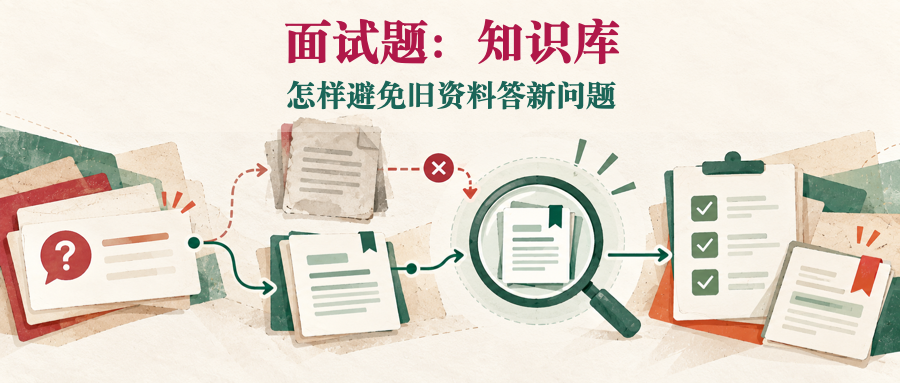
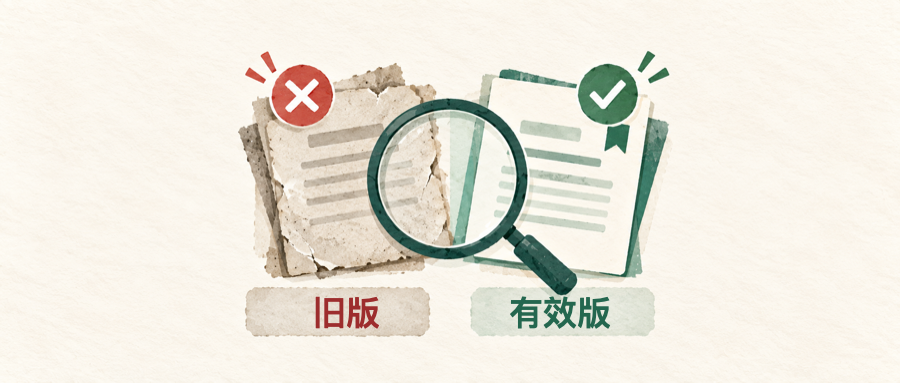
Refine knowledge base covers for WeChat previews

diff --git a/content/wechat/02-knowledge-retrieval-and-rag/submodules/01-knowledgebase/prompts.md b/content/wechat/02-knowledge-retrieval-and-rag/submodules/01-knowledgebase/prompts.md
@@ -1,15 +1,15 @@
 # 知识库子模块配图说明
 
-版本：0.3.0；修订时间：2026-09-30 14:27 CST；依据提交：`c6db753`（`main`，修订前仅有未跟踪的推文终稿目录）。
+版本：0.4.0；修订时间：2026-09-30 15:43 CST；依据提交：`a3fc386`（`main`，修订前含其他未提交的规范修订与未跟踪的推文终稿目录）。
 
 统一 1536×1024 PNG、暖白底、青绿与橙色重点、清楚中文，无水印。五张结构图讲资料生命周期，一张论文对照原理图讲索引建立；图中文字只写能在手机上读清的关键词。
 
 ## 封面
 
-两张封面最终均为 900×383 PNG。图像生成工具只负责无文字编辑插画，中文标题由 `scripts/compose-knowledgebase-covers.mjs` 确定性叠加，避免错别字和多余标签。视觉参考第一模块的公众号封面：暖白纸张、深灰线条、墨绿、青绿、梅红和少量橙色，低饱和、横向单线叙事、留白充足。禁止“一级模块总览”“子模块”“大话系列”“结构图”等内部标签，也禁止机器人、盾牌、发光核心、霓虹、渐变、立体玻璃卡片和通用图标拼贴。
+两张封面最终均为 900×383 PNG。图像生成工具只负责无文字编辑插画；需要精确呈现的中文由 `scripts/compose-knowledgebase-covers.mjs` 确定性叠加，避免错别字和多余标签。视觉参考第一模块的公众号封面：暖白纸张、深灰线条、墨绿、青绿、梅红和少量橙色，低饱和、横向单线叙事、留白充足。禁止“一级模块总览”“子模块”“大话系列”“结构图”等内部标签，也禁止机器人、盾牌、发光核心、霓虹、渐变、立体玻璃卡片和通用图标拼贴。
 
-1. `kb-cover-main-wechat.png`：主文封面。标题逐字为“知识库”，副标题逐字为“资料进库之后，谁保证它还管用”。无文字底图从正式制度原件开始，经过旧新版本与日历、解析记录、可检索档案，最后用回溯线返回有效原文；只表达来源、版本、生效和可追溯这一条主线。
-2. `kb-cover-interview-wechat.png`：面试副文封面。标题逐字为“面试题：知识库”，副标题逐字为“怎样避免旧资料答新问题”。无文字底图从问题卡进入旧新制度分叉，旧路径被挡回，新路径经过放大镜审计后进入核对清单与原文书签；强调按来源、版本、生效时间和权限判断，不复制主文的资料生命周期构图。
+1. `kb-cover-main-wechat.png`：主文封面。标题逐字为“知识库”，副标题逐字为“资料进库之后，谁保证它还管用”。标题使用 58 px 重宋体，副标题使用 30 px 重宋体。无文字底图以正式原件、旧新版本与日历、结构化记录、可检索档案和有效原文组成一条短叙事；底部 96 px（约 25%）只保留暖白纸张纹理，作为微信自动标题遮罩安全区，不放对象、箭头或关键信息。
+2. `kb-cover-interview-wechat.png`：面试副文封面按小缩略图设计，不再写完整文章标题。全部关键信息放在中央正方形安全区：放大镜覆盖旧、新两版制度，旧版用红叉和 34 px“旧版”短标签，有效版用绿勾和 34 px“有效版”短标签；中央组合约占画面面积 60%。两端不再放问题卡、清单、纸堆或装饰面板，缩成 128×128 并居中裁切后仍要一眼看懂。
 
 正文不重复插入封面；主、副文分别使用自己的封面，不通过同图换色区分。
 

diff --git a/content/wechat/02-knowledge-retrieval-and-rag/submodules/01-knowledgebase/interview-side.md b/content/wechat/02-knowledge-retrieval-and-rag/submodules/01-knowledgebase/interview-side.md
@@ -12,10 +12,10 @@ topic: "context"
 content_level: "submodule"
 submodule: "knowledgebase"
 series_order: 1
-version: "0.1.3"
-stage: "按版本审计主题重做面试副文封面并移除正文重复首图"
-git_state: "基于 c6db753（main；修改前仅有未跟踪的推文终稿目录）"
-modified_at: "2026-09-30 14:27 CST"
+version: "0.1.4"
+stage: "按微信小缩略图与中央裁切规则重做面试副文封面"
+git_state: "基于 a3fc386（main；修改前含其他未提交的规范修订与未跟踪的推文终稿目录）"
+modified_at: "2026-09-30 15:43 CST"
 ---
 
 # 面试题：知识库怎样避免旧资料答新问题

diff --git a/content/wechat/02-knowledge-retrieval-and-rag/submodules/01-knowledgebase/beginner-main.md b/content/wechat/02-knowledge-retrieval-and-rag/submodules/01-knowledgebase/beginner-main.md
@@ -12,10 +12,10 @@ topic: "context"
 content_level: "submodule"
 submodule: "knowledgebase"
 series_order: 1
-version: "0.1.3"
-stage: "按文章主案例重做主文封面并移除正文重复首图"
-git_state: "基于 c6db753（main；修改前仅有未跟踪的推文终稿目录）"
-modified_at: "2026-09-30 14:27 CST"
+version: "0.1.4"
+stage: "按微信标题遮罩安全区重做主文封面"
+git_state: "基于 a3fc386（main；修改前含其他未提交的规范修订与未跟踪的推文终稿目录）"
+modified_at: "2026-09-30 15:43 CST"
 ---
 
 # 知识库：资料进库之后，谁保证它还管用
